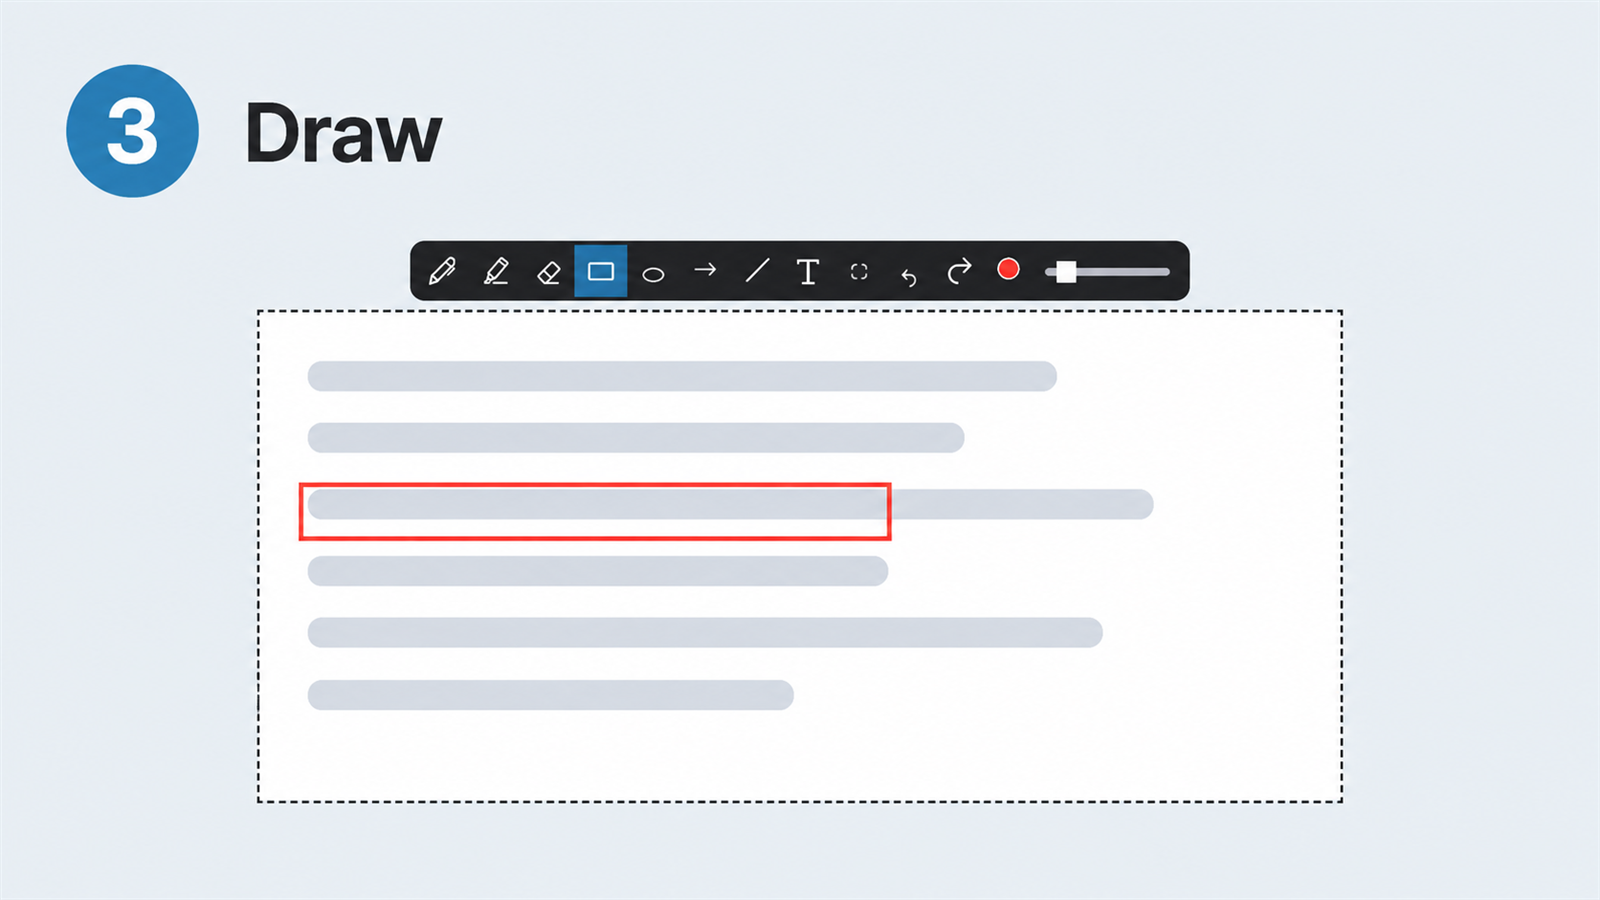
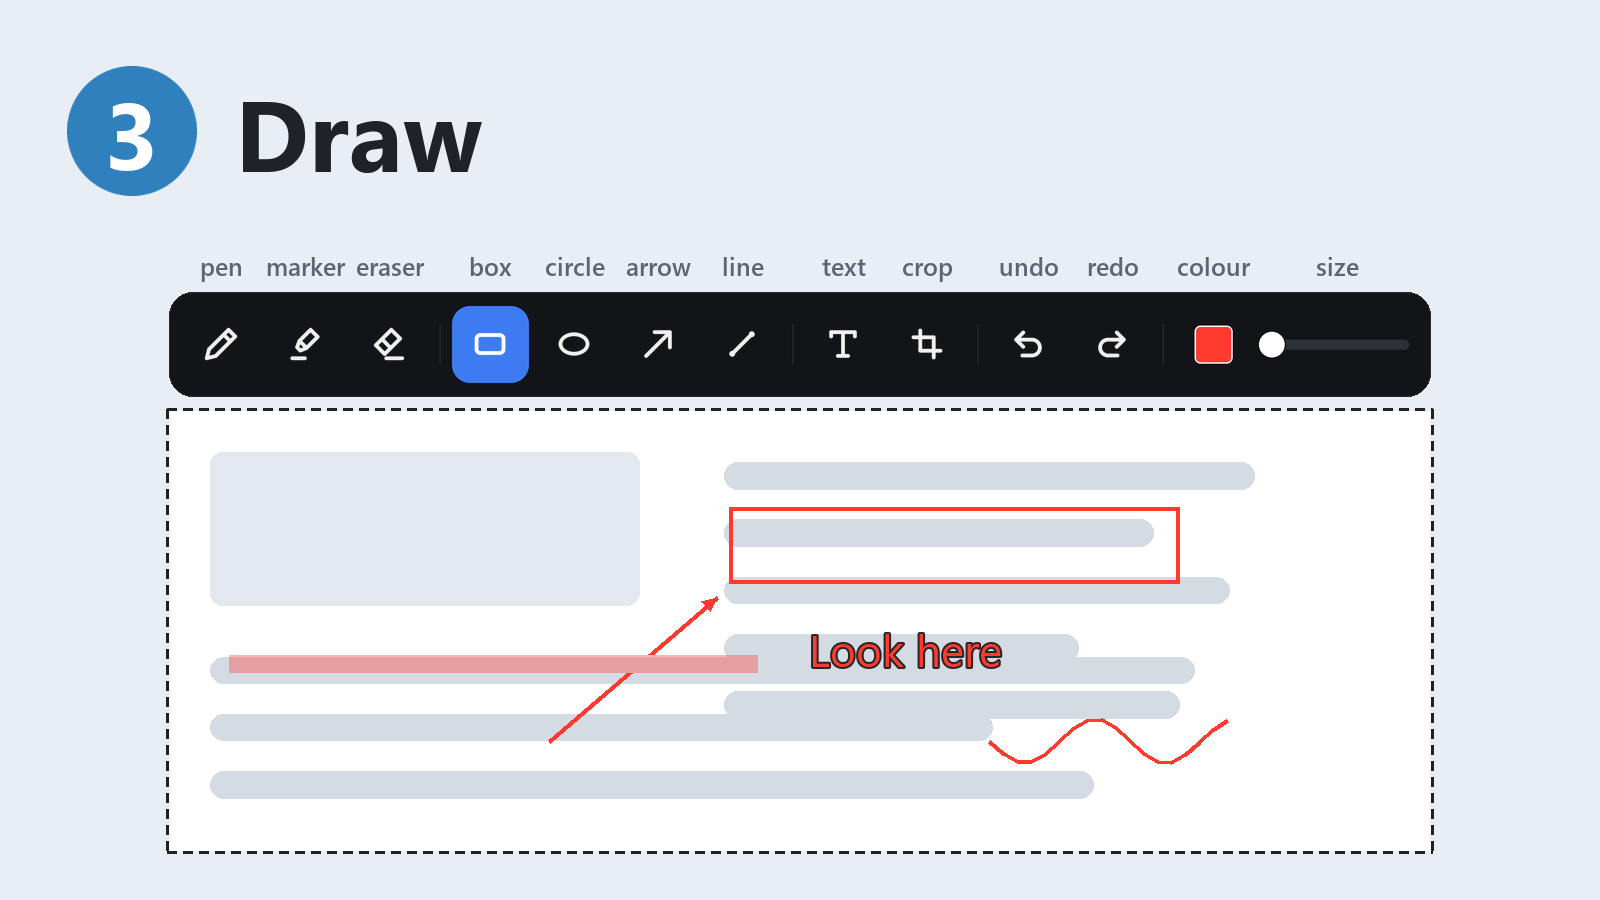
Show every feature in the README; eraser ring and floating text
- README: six steps, one line each, one picture each (snip, drag, draw, zoom and move,
  erase and text, save). The new pictures show the real toolbar with every button named.
- Eraser: a ring shows exactly what it clears; a single click erases it. While erasing,
  the colour square shows the eraser.
- Text: after typing, it follows the mouse until a click or Enter drops it. Arrow keys
  nudge it; Esc throws it away.

diff --git a/clipchimp.py b/clipchimp.py
@@ -628,6 +628,8 @@ class FrameAnnotator:
         self.future: list[tuple[Image.Image, Image.Image, Rect]] = []
         self.photo = None
         self.theme = windows_theme()
+        self.pointer: Point | None = None        # the image pixel under the pointer (for the eraser ring)
+        self.placing: dict | None = None         # a typed text still following the pointer, not yet dropped
 
         self.frame = tk.Toplevel(owner)
         self.frame.overrideredirect(True)
@@ -637,6 +639,8 @@ class FrameAnnotator:
         self.canvas.bind("<ButtonPress-1>", self.press)
         self.canvas.bind("<B1-Motion>", self.move)
         self.canvas.bind("<ButtonRelease-1>", self.release)
+        self.canvas.bind("<Motion>", self.hover)
+        self.canvas.bind("<Leave>", self.pointer_left)
         # the canvas only: a wheel event also reaches the Toplevel, which would zoom twice
         self.canvas.bind("<MouseWheel>", self.wheel)
         self.canvas.bind("<ButtonPress-3>", self.begin_frame_move)
@@ -653,9 +657,13 @@ class FrameAnnotator:
         self.toolbar_canvas.pack(fill="both", expand=True)
         self.build_toolbar()
         for window in (self.frame, self.toolbar):
-            window.bind("<Escape>", lambda _e: self.cancel())
+            window.bind("<Escape>", lambda _e: self.escape())
             window.bind("<Control-z>", lambda _e: self.undo())
             window.bind("<Control-y>", lambda _e: self.redo())
+            window.bind("<Return>", lambda _e: self.drop_text())
+            for key, (dx, dy) in {"Left": (-1, 0), "Right": (1, 0), "Up": (0, -1), "Down": (0, 1)}.items():
+                window.bind(f"<{key}>", lambda _e, d=(dx, dy): self.nudge_text(*d, 1))
+                window.bind(f"<Shift-{key}>", lambda _e, d=(dx, dy): self.nudge_text(*d, 10))
         self.set_cursor()
         self.place_all()
         self.refresh()
@@ -710,9 +718,11 @@ class FrameAnnotator:
             tile = theme["press"] if self.tb_press == name else theme["hover"] if self.tb_hover == name else None
             if chosen:
                 tile = theme["press"] if self.tb_press == name else theme["chosen"]
-            if tile and name != "size":
+            if tile and name != "size" and not self.toolbar_inert(name):
                 d.rounded_rectangle((x0, y0, x1 - 1, y1 - 1), TB_TILE_RADIUS * R, fill=tile)
-            if name == "colour":
+            if name == "colour" and self.toolbar_inert(name):
+                pass                                     # erasing: colour means nothing, the slot shows the eraser
+            elif name == "colour":
                 r = TB_SWATCH / 2 * R
                 d.rounded_rectangle((cx - r, cy - r, cx + r, cy + r), 6 * R, fill=self.color,
                                     outline=theme["ring"], width=int(1.5 * R))
@@ -729,10 +739,10 @@ class FrameAnnotator:
         img = img.resize((W, H), Image.Resampling.LANCZOS)
         img.putalpha(img.getchannel("A").point(lambda a: 255 if a >= 128 else 0))
         for name, (x0, y0, x1, y1) in self.toolbar_items.items():
-            if name in ("colour", "size"):
+            if name == "size" or (name == "colour" and not self.toolbar_inert(name)):
                 continue
             ink = theme["chosen_ink"] if name == self.tool else theme["ink"]
-            icon = load_icon(name, ink, TB_ICON)
+            icon = load_icon("eraser" if name == "colour" else name, ink, TB_ICON)
             img.alpha_composite(icon, (int((x0 + x1 - icon.width) / 2), int((y0 + y1 - icon.height) / 2)))
         return img
 
@@ -742,16 +752,21 @@ class FrameAnnotator:
         self.toolbar_photo = ImageTk.PhotoImage(picture.convert("RGB"))
         self.toolbar_canvas.itemconfigure(self.toolbar_image, image=self.toolbar_photo)
 
+    def toolbar_inert(self, name: str) -> bool:
+        """While erasing, the colour square shows the eraser and does nothing."""
+        return name == "colour" and self.tool == "eraser"
+
     def toolbar_hit(self, x: int, y: int) -> str | None:
         for name, (x0, y0, x1, y1) in self.toolbar_items.items():
             if x0 <= x < x1 and y0 <= y < y1:
-                return name
+                return None if self.toolbar_inert(name) else name
         return None
 
     def set_size_from(self, x: int) -> None:
         x0, _, x1, _ = self.toolbar_items["size"]
         frac = min(1.0, max(0.0, (x - x0 - 8) / max(1, x1 - x0 - 16)))
         self.sizes[self.tool] = int(round(1 + 29 * frac))
+        self.draw_overlays()                     # a floating text or the eraser ring follows the new size
 
     def toolbar_motion(self, event) -> None:
         if self.tb_drag:
@@ -793,9 +808,12 @@ class FrameAnnotator:
         return self.sizes[self.tool]
 
     def choose_tool(self, name: str) -> None:
+        if self.placing:
+            self.drop_text()                     # picking any tool drops the floating text where it is
         self.tool = name                         # each tool keeps its own size (self.sizes)
         self.set_cursor()
         self.update_selected()
+        self.draw_overlays()                     # the eraser ring shows only while the eraser is in hand
 
     def set_cursor(self) -> None:
         """The pointer over the clip is the selected tool's icon (the crosshair if that cursor is missing)."""
@@ -814,6 +832,7 @@ class FrameAnnotator:
         if picked:
             self.color = picked
             self.draw_toolbar()
+            self.draw_overlays()
 
     def view_rect(self) -> Rect:
         """Where the frame is on screen: the image at `zoom`, top-left at `origin`."""
@@ -866,12 +885,14 @@ class FrameAnnotator:
         self.place_all(); self.refresh()
 
     def undo(self) -> None:
+        if self.placing:                         # the floating text is not placed yet: undo just drops it
+            self.placing = None; self.refresh(); return
         if self.history:
             self.future.append(self.state())
             self.restore(self.history.pop())
 
     def redo(self) -> None:
-        if self.future:
+        if self.future and not self.placing:
             self.history.append(self.state())
             self.restore(self.future.pop())
 
@@ -888,6 +909,83 @@ class FrameAnnotator:
         self.canvas.configure(width=shown.width, height=shown.height)
         self.canvas.delete("all")
         self.canvas.create_image(0, 0, image=self.photo, anchor="nw")
+        self.draw_overlays()
+
+    # ---------- overlays: the eraser ring and the floating text (canvas items, never in the image) ----------
+    def draw_overlays(self) -> None:
+        self.canvas.delete("overlay")
+        if self.placing:
+            self.draw_floating_text()
+        elif self.tool == "eraser" and self.pointer and not self.moving:
+            # exactly what one dab of the eraser clears: a circle 3 × size across (see draw_freehand)
+            r = max(1, self.size) * 1.5 * self.zoom
+            cx, cy = self.pointer[0] * self.zoom, self.pointer[1] * self.zoom
+            box = (cx - r, cy - r, cx + r, cy + r)
+            self.canvas.create_oval(*box, outline="#ffffff", width=3, tags="overlay")   # reads on dark pixels
+            self.canvas.create_oval(*box, outline=CURSOR_INK, width=1, tags="overlay")  # and on light ones
+
+    def draw_text(self, layer: Image.Image, point: Point, text: str) -> None:
+        ImageDraw.Draw(layer).text(point, text, fill=self.rgba(), font=self.get_font(max(12, self.size * 4)),
+                                   stroke_width=max(0, self.size // 5), stroke_fill=(0, 0, 0, 210))
+
+    def draw_floating_text(self) -> None:
+        p = self.placing
+        key = (p["text"], self.color, self.size, self.zoom)
+        if p.get("key") != key:                   # rebuild the picture only when its look changes
+            font, stroke = self.get_font(max(12, self.size * 4)), max(0, self.size // 5)
+            box = ImageDraw.Draw(Image.new("RGBA", (1, 1))).textbbox((0, 0), p["text"], font=font, stroke_width=stroke)
+            sprite = Image.new("RGBA", (max(1, box[2] - box[0]), max(1, box[3] - box[1])), (0, 0, 0, 0))
+            self.draw_text(sprite, (-box[0], -box[1]), p["text"])
+            if self.zoom != 1.0:
+                size = (max(1, round(sprite.width * self.zoom)), max(1, round(sprite.height * self.zoom)))
+                sprite = sprite.resize(size, Image.Resampling.NEAREST if self.zoom > 1 else Image.Resampling.BILINEAR)
+            p.update(key=key, box=box, photo=ImageTk.PhotoImage(sprite), size=sprite.size)
+        x = round((p["pos"][0] + p["box"][0]) * self.zoom)
+        y = round((p["pos"][1] + p["box"][1]) * self.zoom)
+        w, h = p["size"]
+        self.canvas.create_image(x, y, image=p["photo"], anchor="nw", tags="overlay")
+        # a thin dashed frame says "still moving": it follows the pointer until a click drops it
+        frame = (x - 4, y - 4, x + w + 3, y + h + 3)
+        self.canvas.create_rectangle(*frame, outline="#ffffff", width=1, tags="overlay")
+        self.canvas.create_rectangle(*frame, outline=TOOLBAR_DARK["chosen"], width=1, dash=(4, 3), tags="overlay")
+
+    def hover(self, event) -> None:
+        point = self.point(event)
+        if self.placing:
+            if point and point != self.placing["pos"]:
+                self.placing["pos"] = point; self.draw_overlays()
+            return
+        self.pointer = point
+        if self.tool == "eraser":
+            self.draw_overlays()
+
+    def pointer_left(self, _event) -> None:
+        self.pointer = None
+        if not self.placing:
+            self.draw_overlays()
+
+    # ---------- placing text: it follows the pointer; click (or Enter) drops it, arrows nudge, Esc drops it out ----------
+    def drop_text(self) -> None:
+        if not self.placing:
+            return
+        p, self.placing = self.placing, None
+        self.checkpoint()
+        self.draw_text(self.layer, p["pos"], p["text"])
+        self.refresh()
+
+    def nudge_text(self, dx: int, dy: int, step: int) -> None:
+        if not self.placing:
+            return
+        x, y = self.placing["pos"]
+        self.placing["pos"] = (min(self.base.width - 1, max(0, x + dx * step)),
+                               min(self.base.height - 1, max(0, y + dy * step)))
+        self.draw_overlays()
+
+    def escape(self) -> None:
+        if self.placing:
+            self.placing = None; self.refresh()          # only the floating text goes; the clip stays open
+        else:
+            self.cancel()
 
     def to_image(self, event) -> Point:
         """Canvas (screen) pixels → image pixels."""
@@ -947,7 +1045,14 @@ class FrameAnnotator:
 
     def press(self, event) -> None:
         point = self.point(event)
-        if point is None or self.moving:
+        if self.moving:
+            return
+        if self.placing:                         # the click that drops the floating text
+            if point:
+                self.placing["pos"] = point
+            self.drop_text()
+            return
+        if point is None:
             return
         if self.tool == "text":
             self.clickaway_control(True)
@@ -956,17 +1061,19 @@ class FrameAnnotator:
             finally:
                 self.clickaway_control(False)
             if text:
-                self.checkpoint()
-                ImageDraw.Draw(self.layer).text(point, text, fill=self.rgba(),
-                    font=self.get_font(max(12, self.size * 4)),
-                    stroke_width=max(0, self.size // 5), stroke_fill=(0, 0, 0, 210))
-                self.refresh()
+                self.placing = {"text": text, "pos": point}    # it now follows the pointer until dropped
+                self.frame.focus_force()                        # so Enter / arrows / Esc reach it
+                self.draw_overlays()
             return
         self.checkpoint()
         self.start = self.last = point
+        if self.tool == "eraser":                # a single click rubs out exactly the ring shown
+            self.draw_freehand(point, point); self.refresh()
 
     def move(self, event) -> None:
         point = self.point(event)
+        if point is not None:
+            self.pointer = point                 # the eraser ring rides along while rubbing out
         if not self.start or point is None:
             return
         if self.tool in ("pen", "highlighter", "eraser"):
@@ -1052,6 +1159,7 @@ class FrameAnnotator:
         self.frame.after(350, self.finish)
 
     def finish(self) -> None:
+        self.drop_text()                         # a floating text is saved where it floats, never lost
         self.on_finish(self.composite())
 
     def cancel(self) -> None:

diff --git a/README.md b/README.md
@@ -1,6 +1,6 @@
 # ClipChimp
 
-It snips your screen. It saves it. It lets you edit a bit.
+Snip. Edit. Save.
 
 For Windows.
 
@@ -14,21 +14,23 @@ For Windows.
 
 ![Step 2: drag a box over what you want](docs/step-2.png)
 
-### 3. Draw on it if you want.
+### 3. Draw.
 
-![Step 3: draw on your snip](docs/step-3.png)
+![Step 3: the toolbar: pen, marker, eraser, box, circle, arrow, line, text, crop, undo, redo, colour, size](docs/step-3.png)
 
-Pen, marker, eraser, box, circle, arrow, line, text and crop. Undo and redo too.
+### 4. Scroll to zoom. Right-drag to move.
 
-Scroll to zoom. Right-drag to move it.
+![Step 4: scroll to make the snip bigger or smaller; hold the right button and drag to move it](docs/step-4.png)
 
-### 4. Click anywhere outside it.
+### 5. The ring is what gets erased. Text follows you until you click.
 
-![Step 4: click outside to save and copy](docs/step-4.png)
+![Step 5: a ring shows what the eraser takes; new text floats until you click or press Enter, and the arrow keys nudge it](docs/step-5.png)
 
-Done. It is saved in **Pictures › ClipChimp**. It is also copied, so you can paste it.
+### 6. Click outside. It is saved in **Pictures › ClipChimp** and copied.
 
-Changed your mind? Press **Esc**.
+![Step 6: click outside to save and copy](docs/step-6.png)
+
+**Esc** cancels.
 
 ## Install
 
